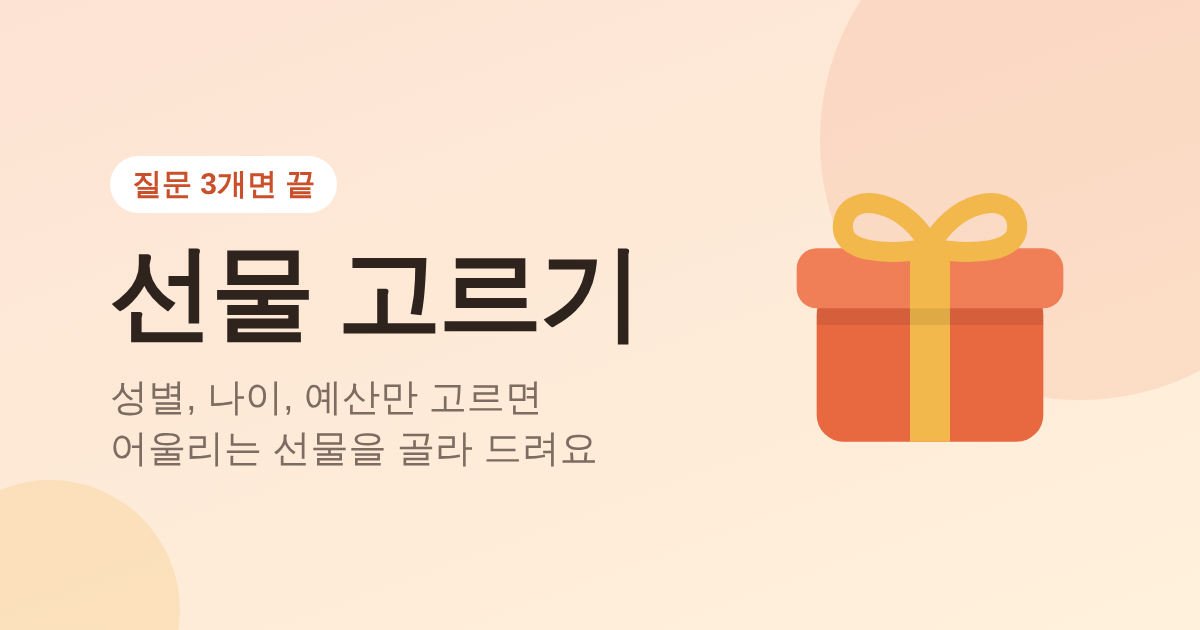
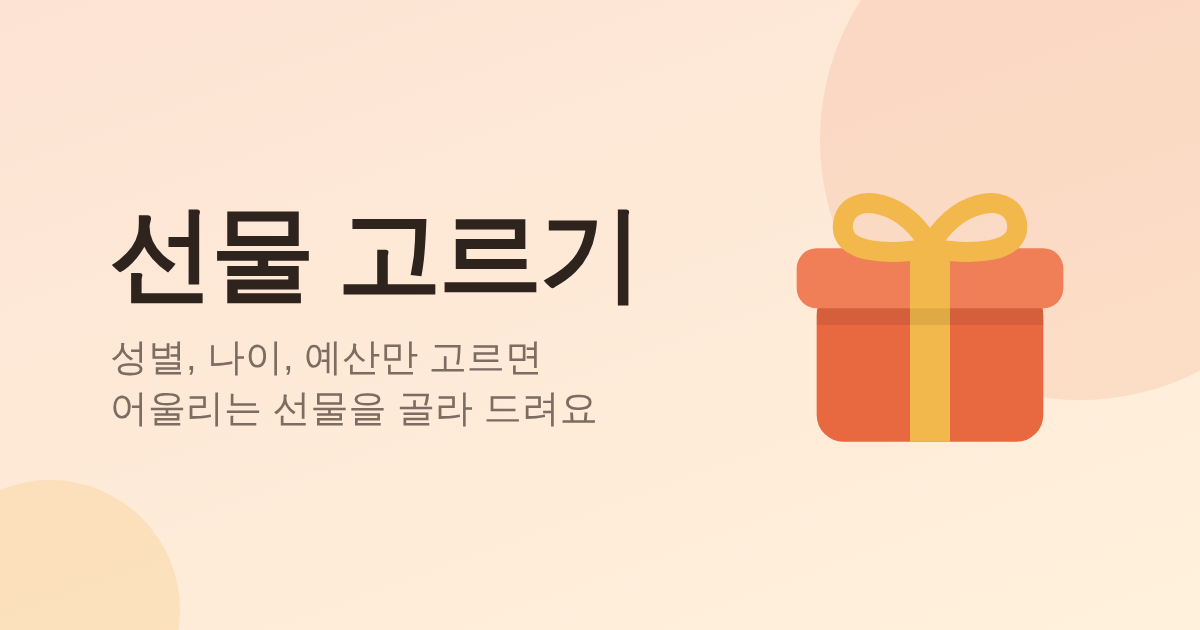
첫 화면·미리보기 이미지에서 '질문 3개면 끝' 배지 빼기
Claude-Session: https://claude.ai/code/session_011UGbFGDNnUUXeTGo7EXs82

Changed region(s): [[0.0925, 0.2413, 0.5242, 0.754]]

diff --git a/index.html b/index.html
@@ -110,17 +110,6 @@
   .search iframe { display: block; width: 100%; height: 75px; border: 0; }
   .hero-body { position: relative; display: flex; align-items: center; gap: 14px; }
   .hero-text { flex: 1; min-width: 0; }
-  .eyebrow {
-    display: inline-block;
-    margin-bottom: 6px;
-    padding: 3px 10px;
-    border-radius: 999px;
-    background: var(--surface);
-    color: var(--accent-deep);
-    font-size: 12.5px;
-    font-weight: 700;
-    box-shadow: var(--shadow-sm);
-  }
   h1 { margin: 0; font-size: 30px; line-height: 1.15; letter-spacing: -0.03em; font-weight: 800; }
   .sub { margin: 6px 0 0; color: var(--muted); font-size: 14.5px; }
   .gift-art { flex: 0 0 auto; width: 80px; height: 80px; }
@@ -403,7 +392,6 @@
     </div>
     <div class="hero-body">
       <div class="hero-text">
-        <span class="eyebrow">질문 3개면 끝</span>
         <h1>선물 고르기</h1>
         <p class="sub">성별, 나이, 예산만 고르면 어울리는 선물을 골라 드려요.</p>
       </div>
